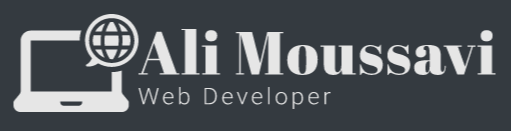
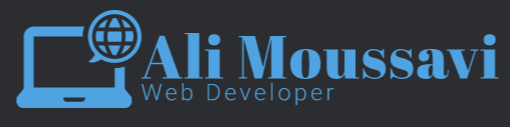
adding skills section and animations

Changed region(s): [[0.0, 0.0709, 1.0, 0.874]]

diff --git a/src/App.js b/src/App.js
@@ -1,27 +1,54 @@
 import React, { Component } from 'react';
-import { BrowserRouter, Route } from 'react-router-dom';
+import { BrowserRouter, Route, Switch } from 'react-router-dom';
 import contactMe from './components/contactMe';
 import home from './components/home';
 import NavBar1 from './components/NavBar1';
 import projects from './components/projects';
 import skills from './components/skills';
-import { Container } from 'react-bootstrap';
 import './App.css';
 import Footer from './components/Footer';
+import posed, { PoseGroup } from 'react-pose';
+
+const RouteContainer = posed.div({
+	enter: { x: 0, opacity: 1, delay: 300, beforeChildren: true },
+	exit: { x: -500, opacity: 0 }
+});
 
 class App extends Component {
 	render() {
 		return (
 			<div className="specialfont">
 				<BrowserRouter>
-					<div className="specialfont">
-						<NavBar1 />
-						<Route path="/" exact component={home} />
-						<Route path="/projects" exact component={projects} />
-						<Route path="/skills" exact component={skills} />
-						<Route path="/contact" exact component={contactMe} />
-					</div>
-					<Footer />
+					<Route
+						render={({ location }) => (
+							<div className="specialfont">
+								<NavBar1 />
+								<PoseGroup>
+									<RouteContainer key={location.key}>
+										<Switch location={location}>
+											<Route path="/" exact component={home} />
+											<Route
+												path="/projects"
+												exact
+												component={projects}
+											/>
+											<Route
+												path="/skills"
+												exact
+												component={skills}
+											/>
+											<Route
+												path="/contact"
+												exact
+												component={contactMe}
+											/>
+										</Switch>
+									</RouteContainer>
+								</PoseGroup>
+								<Footer />
+							</div>
+						)}
+					/>
 				</BrowserRouter>
 			</div>
 		);

diff --git a/src/components/Footer.js b/src/components/Footer.js
@@ -22,8 +22,8 @@ class Footer extends Component {
 								<a href="https://www.linkedin.com/in/ali-moussavi-1368b1172/">
 									<img
 										alt="linkedin"
-										src="/linkedin.PNG"
-										className="myicon linkedin"
+										src="/linkedin.png"
+										className="myicon"
 									/>
 								</a>
 							</div>
@@ -37,12 +37,12 @@ class Footer extends Component {
 				>
 					{(props) => (
 						<div style={props} className="myiconholder1">
-							<div className="myiconholder1">
+							<div className="myiconholder">
 								<a href="https://github.com/ali-moussavi">
 									<img
 										alt="github"
-										src="/github.PNG"
-										className="github"
+										src="/github.svg"
+										className="myicon"
 									/>
 								</a>
 							</div>
@@ -60,8 +60,8 @@ class Footer extends Component {
 								<a href="https://t.me/MohammadAli_73">
 									<img
 										alt="telegram"
-										src="/telegram.PNG"
-										className="myicon telegram"
+										src="/telegram1.png"
+										className="myicon"
 									/>
 								</a>
 							</div>
@@ -79,8 +79,8 @@ class Footer extends Component {
 								<a href="https://www.instagram.com/mohammadali73/">
 									<img
 										alt="instagram"
-										src="/instagram.PNG"
-										className="myicon instagram"
+										src="/instagram.png"
+										className="myicon"
 									/>
 								</a>
 							</div>

diff --git a/src/components/NavBar1.js b/src/components/NavBar1.js
@@ -5,13 +5,13 @@ import './NavBar1.css';
 
 const NavBar1 = () => {
 	return (
-		<Navbar sticky="top" expand="lg" bg="dark" variant="dark">
+		<Navbar sticky="top" expand="lg" className="bgcolor" variant="dark">
 			<Navbar.Brand className="nopadding">
 				<Link to="/">
 					<img
 						alt=""
 						src="/Capture.PNG"
-						width="180"
+						width="200"
 						height="50"
 						className="d-inline-block align-top"
 					/>
@@ -21,18 +21,18 @@ const NavBar1 = () => {
 			<Navbar.Collapse className="justify-content-end">
 				<Nav className="justify-content-end">
 					<Nav.Item className="pr-3 pl-3 py-3 px-3">
-						<Link to="/skills" style={{ color: '#48e0e8' }}>
+						<Link to="/skills" style={{ color: '#4fa3e0' }}>
 							My Skills
 						</Link>
 					</Nav.Item>
 
 					<Nav.Item className="pr-3 pl-3 py-3 px-3">
-						<Link to="/projects" style={{ color: '#48e0e8' }}>
+						<Link to="/projects" style={{ color: '#4fa3e0' }}>
 							Projects
 						</Link>
 					</Nav.Item>
 					<Nav.Item className="pr-3 pl-3 py-3 px-3">
-						<Link to="/contact" style={{ color: '#48e0e8' }}>
+						<Link to="/contact" style={{ color: '#4fa3e0' }}>
 							Contact Me
 						</Link>
 					</Nav.Item>

diff --git a/src/components/skills.js b/src/components/skills.js
@@ -1,8 +1,29 @@
 import React, { Component } from 'react';
+import './skills.css';
+import Html from './skillsets/Html';
 
 class skills extends Component {
 	render() {
-		return <div>my skills</div>;
+		return (
+			<div className="myskills">
+				<Html src="/html-5.png" color={{ color: '#fc490b' }} text="HTML5" />
+				<Html src="/css.png" color={{ color: '#039be5' }} text="CSS3" />
+				<Html
+					src="/javascript.png"
+					color={{ color: '#d4b830' }}
+					text="JavaScript"
+				/>
+				<Html src="/reactjs.png" color={{ color: '#6fcff0' }} text="React" />
+				<Html src="/Redux.png" color={{ color: '#8965c1' }} text="Redux" />
+				<Html
+					src="/bootstrap.png"
+					color={{ color: '#8854d6' }}
+					text="Bootstrap"
+				/>
+				<Html src="/nodejs.png" color={{ color: '#6da75d' }} text="Node.js" />
+				<Html src="/github1.png" color={{ color: '#ffffff' }} text="GitHub" />
+			</div>
+		);
 	}
 }
 

diff --git a/src/components/home.js b/src/components/home.js
@@ -4,7 +4,7 @@ import ReactDOM from 'react-dom';
 import './home.css';
 import { AwesomeButton } from 'react-awesome-button';
 import { Link } from 'react-router-dom';
-import 'react-awesome-button/dist/themes/theme-rickiest.css';
+import 'react-awesome-button/dist/themes/theme-c137.css';
 import { Spring, Transition, Trail, config } from 'react-spring/renderprops';
 
 const myname = [ 'A', 'l', 'i' ];
@@ -133,7 +133,7 @@ class home extends Component {
 								>
 									{(props) => (
 										<div style={props}>
-											<AwesomeButton type="primary">
+											<AwesomeButton type="link">
 												My Skills >
 											</AwesomeButton>
 										</div>

diff --git a/src/components/Footer.css b/src/components/Footer.css
@@ -1,5 +1,5 @@
 .footer {
-	background-color: #343a40;
+	background-color: #2b2d31;
 	height: 12vh;
 	display: flex;
 	justify-content: center;
@@ -19,31 +19,9 @@
 .myicon {
 	height: 80%;
 	transition: transform .2s;
+	padding-right: 5px;
+	padding-left: 5px;
 }
 .myicon:hover {
-	transform: scale(1.25);
-}
-
-.instagram {
-	padding-left: 10px;
-	padding-right: 10px;
-}
-
-.telegram {
-	padding-right: 10px;
-	padding-left: 10px;
-}
-.linkedin {
-	padding-right: 10px;
-	padding-left: 10px;
-}
-
-.github {
-	height: 80%;
-	margin-top: 5px;
-	transition: transform .2s;
-}
-
-.github:hover {
 	transform: scale(1.25);
 }

diff --git a/src/components/skillsets/Html.js b/src/components/skillsets/Html.js
@@ -1,0 +1,17 @@
+import React, { Component } from 'react';
+import './Html.css';
+
+class Html extends Component {
+	render() {
+		return (
+			<div className="ctr shadow p-3">
+				<img alt="html" src={this.props.src} className="icon" />
+				<div className="iconname" style={this.props.color}>
+					{this.props.text}
+				</div>
+			</div>
+		);
+	}
+}
+
+export default Html;

diff --git a/src/components/skillsets/Html.css b/src/components/skillsets/Html.css
@@ -1,0 +1,24 @@
+.ctr {
+	background-color: #224761;
+	border-radius: 25px;
+	display: flex;
+	justify-content: center;
+	align-items: center;
+	width: 150px;
+	height: 204px;
+	flex-wrap: wrap;
+	margin: 10px 10px;
+	transition: 0.5s;
+}
+.ctr:hover {
+	transform: scale(1.15);
+}
+
+.icon {
+	width: 80%;
+	margin: 10px 10px;
+}
+
+.iconname {
+	font-size: 30px;
+}

diff --git a/src/components/skills.css b/src/components/skills.css
@@ -1,0 +1,10 @@
+.myskills {
+	max-width: 800px;
+	min-height: 80vh;
+	display: flex;
+	justify-content: center;
+	align-items: center;
+	flex-wrap: wrap;
+	align-content: center;
+	margin: auto;
+}

diff --git a/src/components/home.css b/src/components/home.css
@@ -1,5 +1,5 @@
 .home {
-	background-color: #343a40;
+	background-color: #2b2d31;
 	height: 80vh;
 }
 
@@ -62,7 +62,7 @@
 }
 
 .coloring {
-	color: #48e0e8;
+	color: #95c4e6;
 }
 
 .letters {

diff --git a/src/components/NavBar1.css b/src/components/NavBar1.css
@@ -2,3 +2,7 @@
 	padding-top: 0;
 	padding-bottom: 0;
 }
+
+.bgcolor {
+	background-color: #2b2d31;
+}

diff --git a/src/App.css b/src/App.css
@@ -7,4 +7,5 @@
 
 .specialfont {
 	font-family: 'Drummon Regular';
+	background-color: #2b2d31;
 }
